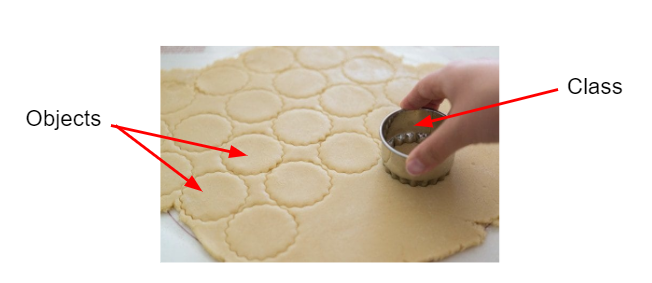
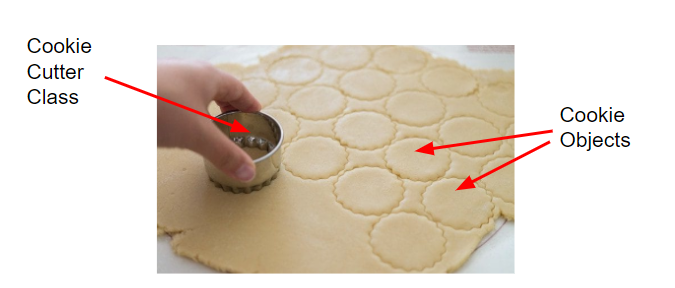
flipped other image to match

diff --git a/_sources/Unit1-Using-Objects-and-Methods/topic-1-12-objects.rst b/_sources/Unit1-Using-Objects-and-Methods/topic-1-12-objects.rst
@@ -25,27 +25,25 @@ Objects - Instances of Classes
 Java is an **object-oriented programming** language. That means that one of the
 primary ways of designing and organizing a Java program is in terms of **objects**. Objects combine data and the code that operates on that data into
 a single unit. To create objects, we first define a **class** which provides
-a blueprint for creating the objects. In Java, all programs are built out of classes. This is why, every Java program starts with ``public class``. In this unit, you will learn the vocabulary of object-oriented programming and to create and use objects of a class written for you. In later units, you will learn to write your own classes.
+a blueprint for creating the objects. In Java, all programs are built out of classes. This is why, every Java program starts with ``public class``. In this unit, you will learn the vocabulary of object-oriented programming and to create and use objects of a class written for you. In later units, you will learn to write your own classes.  
+
+What are Classes and Objects?
+------------------------------
+
+You can think of a class as something like a blueprint of a house that is used to construct houses (objects), or like a cookie cutter that is used to create the cookies (objects). The cookie cutter (class) can
+be used to create as many cookies (objects) as you want. The cookies (objects) are all the same shape and size, but they can have different colors and decorations. 
 
 .. figure:: Figures/blueprint.png
     :width: 400px
     :align: center
     :figclass: align-center
-
-    Figure 0: A blueprint of a house (class) is used to construct houses (objects)
-
-What are Classes and Objects?
-------------------------------
-
-You can think of a class as something like a blueprint or a cookie cutter that is used to create the cookies (objects) and can
-be used to create as many cookies (objects) as you want. The cookies (objects) are all the same shape and size, but they can have different colors and decorations. 
-
+    
 .. figure:: Figures/cookieCutterLabelled.png
     :width: 500px
     :align: center
     :figclass: align-center
 
-    Figure 1: Using a cookie cutter (class) to make cookies (objects)
+    Figure 1: Using a blueprint (class) to construct houses (objects) or a cookie cutter (class) to make cookies (objects) 
 
 You can also think of a class as defining a new data type. In this lesson, we will use the class ``Turtle`` to make animated turtle objects. Just like you use ``int`` to
 declare variables that hold numbers, you can use ``Turtle`` to declare many variables, animated turtle objects, who are **instances** of the ``Turtle`` class. 
